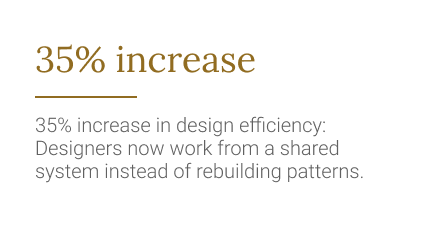
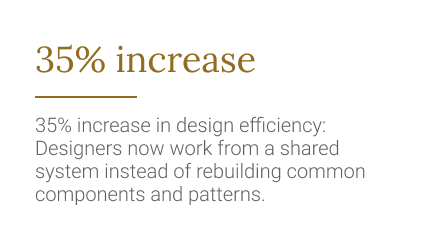
Updated Thrive case study.

Changed region(s): [[0.0607, 0.7842, 0.6075, 0.8423], [0.6682, 0.668, 0.8505, 0.7552]]

diff --git a/thrive-design-system.html b/thrive-design-system.html
@@ -94,9 +94,9 @@
             </p>
              <p>Some of the results I’ve delivered:</p>
                 <ul>
-                    <li><b style="color: #2d2d2d;">↘ 25% reduction</b> –<br>Faster time-to-market: Reduced front-end implementation time by ~25% by giving engineers reusable, production-ready components.</li>
-                    <li><b style="color: #2d2d2d;">↗ 35% increase</b> –<br>35% increase in design efficiency: Designers now work from a shared system instead of rebuilding patterns.</li>
-                    <li><b style="color: #2d2d2d;">⬆ Over 90% coverage</b> –<br>Over 90% component coverage with accessible defaults, supporting more inclusive experiences out of the box.</li>
+                    <li><b style="color: #2d2d2d;">↘ 25% faster implementation time</b> –<br>Faster time-to-market: Reduced front-end implementation time by ~25% by giving engineers reusable, production-ready components.</li>
+                    <li><b style="color: #2d2d2d;">↗ 35% faster design workflow</b> –<br>35% increase in design efficiency: Designers now work from a shared system instead of rebuilding common components and patterns.</li>
+                    <li><b style="color: #2d2d2d;">⬆ Over 90% of components are AA compliant</b> –<br>Over 90% component coverage with accessibility standards, supporting more inclusive experiences out of the box.</li>
                 </ul>
             <a class="button round" href="#part1"><h4>Skip to section</h4></a>
             <hr>
@@ -173,15 +173,20 @@
             <h2>Solution</h2>
         </div>
         <div class="col-md-9">
-            <img src="images/image-placeholder2.jpeg" class="img-responsive image-asset">
             <p>To address these issues, I led the creation of a foundational design system focused on scalability, usability, and accessibility. This included:
-            </b></p>
-            <ul>
-                <li>A <b>centralized component library</b> shared across teams with clearly defined specs and interaction guidelines.</li>
-                <li>A <b>design token architecture</b> aligned across Figma and front-end codebases, reducing implementation discrepancies.</li>
-                <li><b>Accessible-by-default components</b> with WCAG 2.1 - 2.2 AA compliance as the standard baseline.</li>
-                <li>A <b>collaborative working model</b> with design and engineering leads to encourage adoption and iterate on feedback.</li>
-            </ul>
+            </p>
+            <br>
+            <img src="images/thrive-calendar-DS-working-modal.png" class="img-responsive image-asset-small">
+            <p>We set up a collaborative working model with design and engineering leads to make sure the system wasn’t just built in isolation. For example, we’d co-create components like tables or filters together, aligning early on technical constraints and design needs. We also ran pilots with a few product teams to gather feedback before rolling things out more broadly. This helped us catch edge cases early, make quick adjustments, and build trust. Over time, that collaboration turned into shared ownership, which made adoption smoother and more sustainable.</p>
+            <br>
+            <img src="images/thrive-accessibility-passing.png" class="img-responsive image-asset-small">
+            <p>Most components are designed to meet AA-level accessibility standards outlined in WCAG 2.1 and 2.2. We regularly use Accessibility Insights to audit components for issues like insufficient color contrast, missing ARIA labels, or poor keyboard navigation. For example, we caught low contrast in secondary buttons and missing focus states in modals, which we quickly resolved. We also ensured icon-only buttons had proper aria-labels for screen readers. This ongoing accessibility review process helps us catch issues early and ship components that are usable for everyone.</p>
+            <br>
+            <img src="images/thrive-token-examples.png" class="img-responsive image-asset-small">
+            <p>We built a shared design token architecture that kept Figma and the codebase in sync—things like color, spacing, and typography were defined in one source of truth. For example, we mapped semantic tokens like button-primary-bg and text-muted directly from our design library to the front-end, which reduced handoff confusion and visual mismatches. When we updated a global spacing token, it reflected consistently across both platforms without manual overrides. This alignment made implementation faster and helped designers and engineers speak the same language. It also reduced drift over time and simplified onboarding for new team members.</p>
+            <br>
+            <img src="images/thrive-design-systems-list.png" class="img-responsive image-asset-small">
+            <p>We built a centralized component library shared across teams, with clear specs, usage guidelines, and interaction patterns baked in. Since we support three design systems, we separated them into distinct libraries—each tailored to a specific product surface—so teams knew exactly where to go without second-guessing. This structure cut down confusion, reduced duplicate work, and made adoption much smoother. It also gave us more control when rolling out updates specific to each system.</p>
         </div>
     </div>
     <!-- End Solution -->
